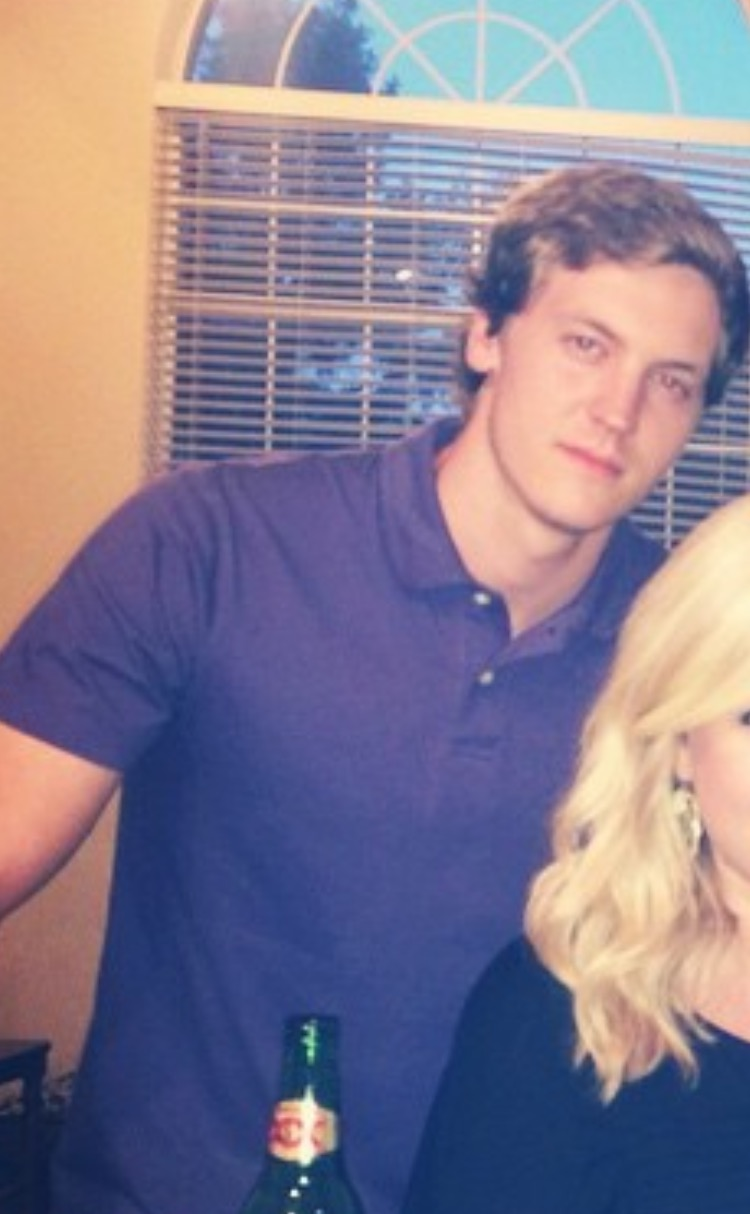
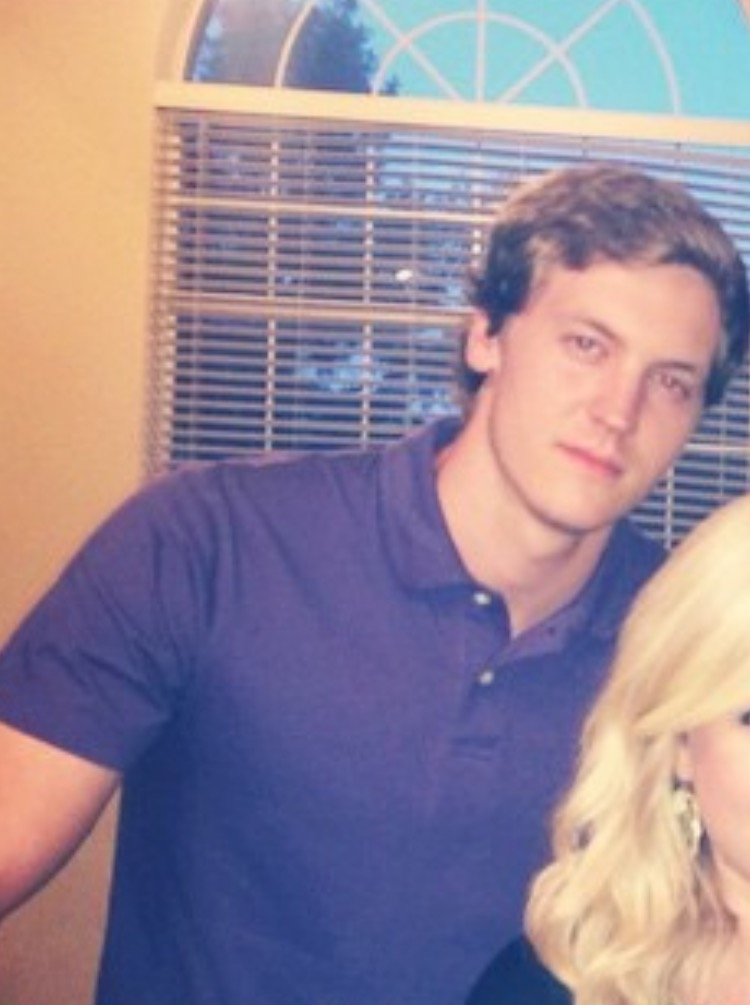
close #6

diff --git a/about.html b/about.html
@@ -47,7 +47,7 @@
         		<div class = "col-sm-2">
         			<ul class = "list-group">
         				<li class = "list-group-item"> 
-        				<img class = "img-responsive img-square" src = images/AHSAN.jpg>
+        				<img class = "img-square img-responsive img-center" src = images/AHSAN.jpg>
         				<h3>Ahsan Hussain</h3> 
         				<p>Studies Mechanical Engineering at The Univeristy of Texas at Austin. From Carrollton, TX. Hobbies: sports, movies, cooking </p> </li>
         				<li class = "list-group-item"> Major Responsibilites:<br>About Page and Coach Pages </li>
@@ -56,7 +56,7 @@
     			<div class = "col-sm-2">
         			<ul class = "list-group">
         				<li class = "list-group-item"> 
-        				<img class = "img-responsive img-square" src = images/ALEX.jpg>
+        				<img class = "img-square img-responsive img-center" src = images/ALEX.jpg>
         				<h3>Alexander Kopec</h3> 
         				<p>Senior at the University of Texas studying Geographical Information Science. Grew up in Canyon Lake, TX.</p> </li>
         				<li class = "list-group-item"> Major Responsibilites:<br>Data Collection, Programming the Teams and Players Pillar pages</li>
@@ -65,7 +65,7 @@
     			<div class = "col-sm-2">
         			<ul class = "list-group">
         				<li class = "list-group-item"> 
-        				<img class = "img-responsive" src = images/JACK.jpg>
+        				<img class = "img-square img-responsive img-center" src = images/JACK.jpg>
         				<h3>Jack Kengott</h3> 
         				<p>MIS major at the University of Texas and is pursuing a certificate in Computer Science. Has a passion for music.</p> </li>
         				<li class = "list-group-item"> Major Responsibilites:<br>Documentatoion</li>
@@ -74,7 +74,7 @@
     			<div class = "col-sm-2">
         			<ul class = "list-group">
         				<li class = "list-group-item"> 
-        				<img class = "img-responsive" src = images/logan.jpeg>
+        				<img class = "img-square img-responsive img-center" src = images/logan.jpeg>
         				<h3>Logan Liebcsh</h3> 
         				<p>Senior at the University of Texas at Austin</p> </li>
         				<li class = "list-group-item"> Major Responsibilites:<br>Home Page, Navigation</li>
@@ -83,7 +83,7 @@
     			<div class = "col-sm-2">
         			<ul class = "list-group">
         				<li class = "list-group-item"> 
-        				<img class = "img-responsive" src = images/KAMEESH.jpg>
+        				<img class = "img-square img-responsive img-center" src = images/KAMEESH.jpg>
         				<h3>Kameesh Valliani</h3> 
         				<p>Junior studying Finance at The University of Texas at Austin. Owns a juice and ice cream restaurant.</p> </li>
         				<li class = "list-group-item"> Major Responsibilites:<br>Coach Pages</li>
